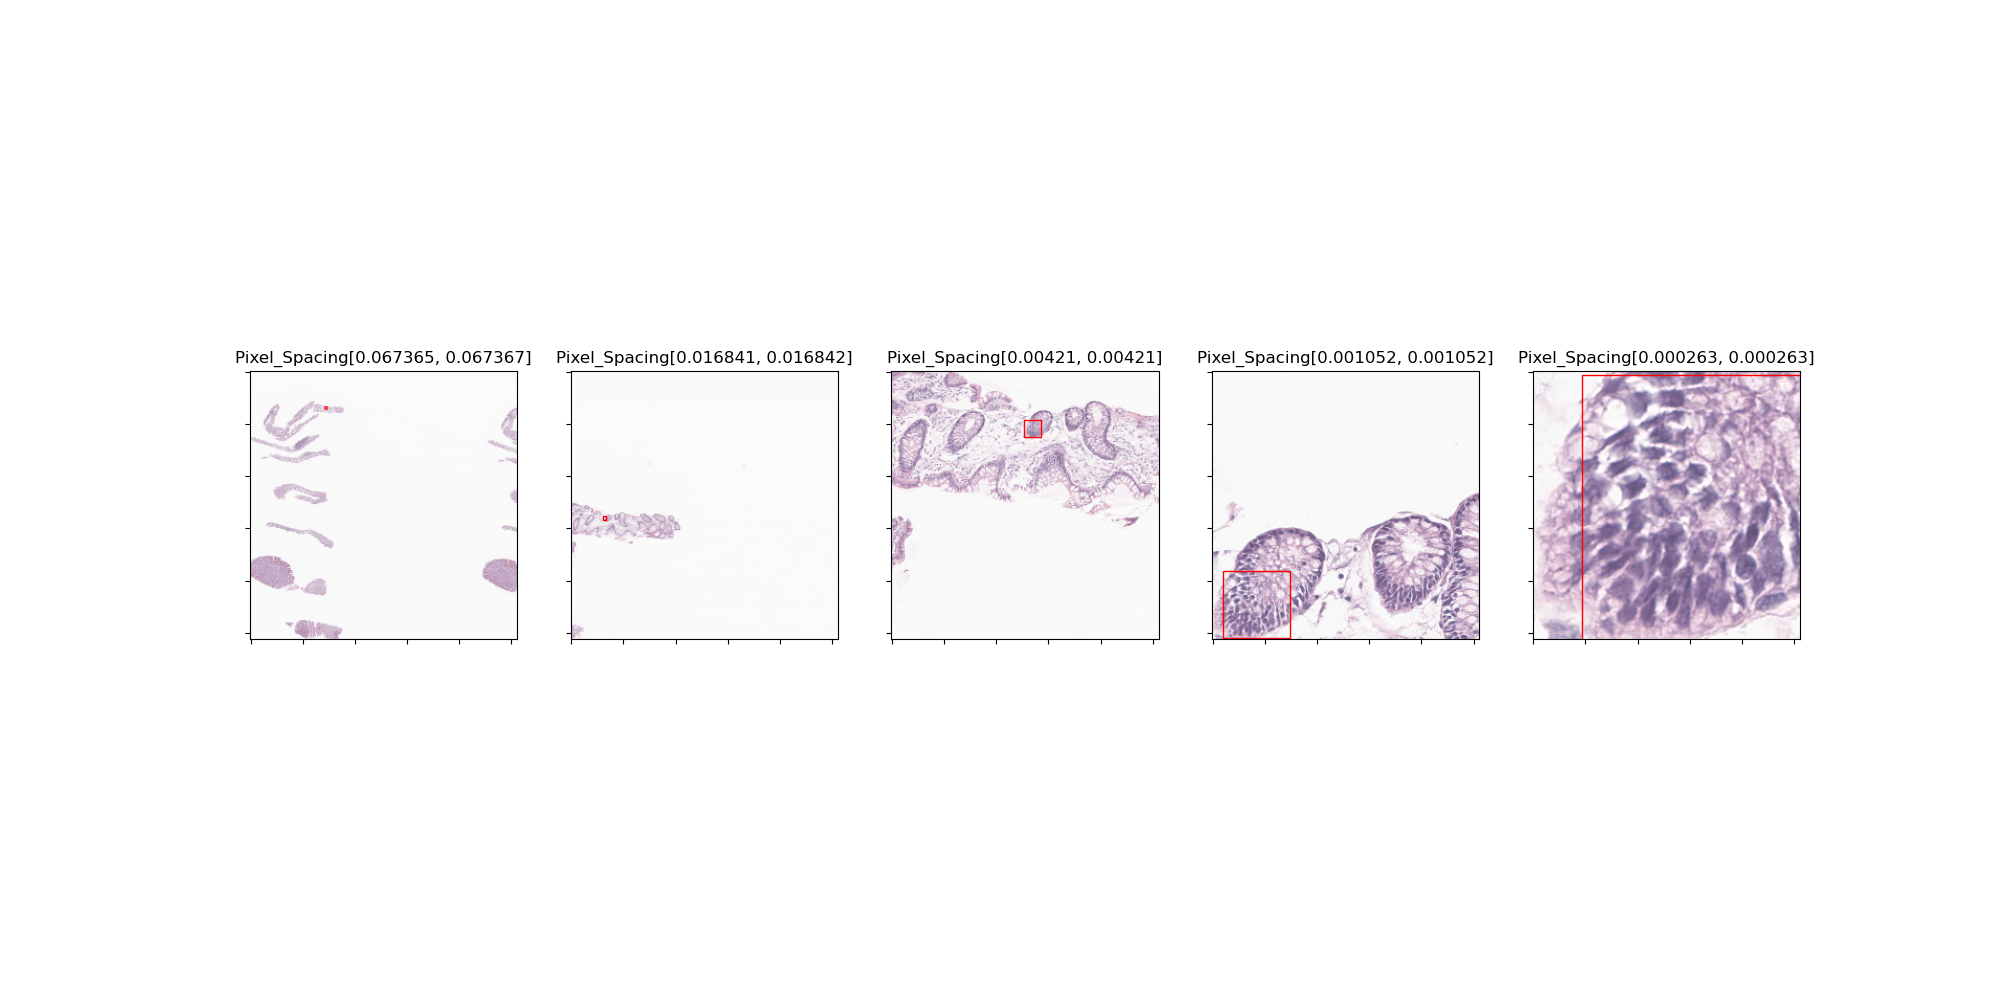
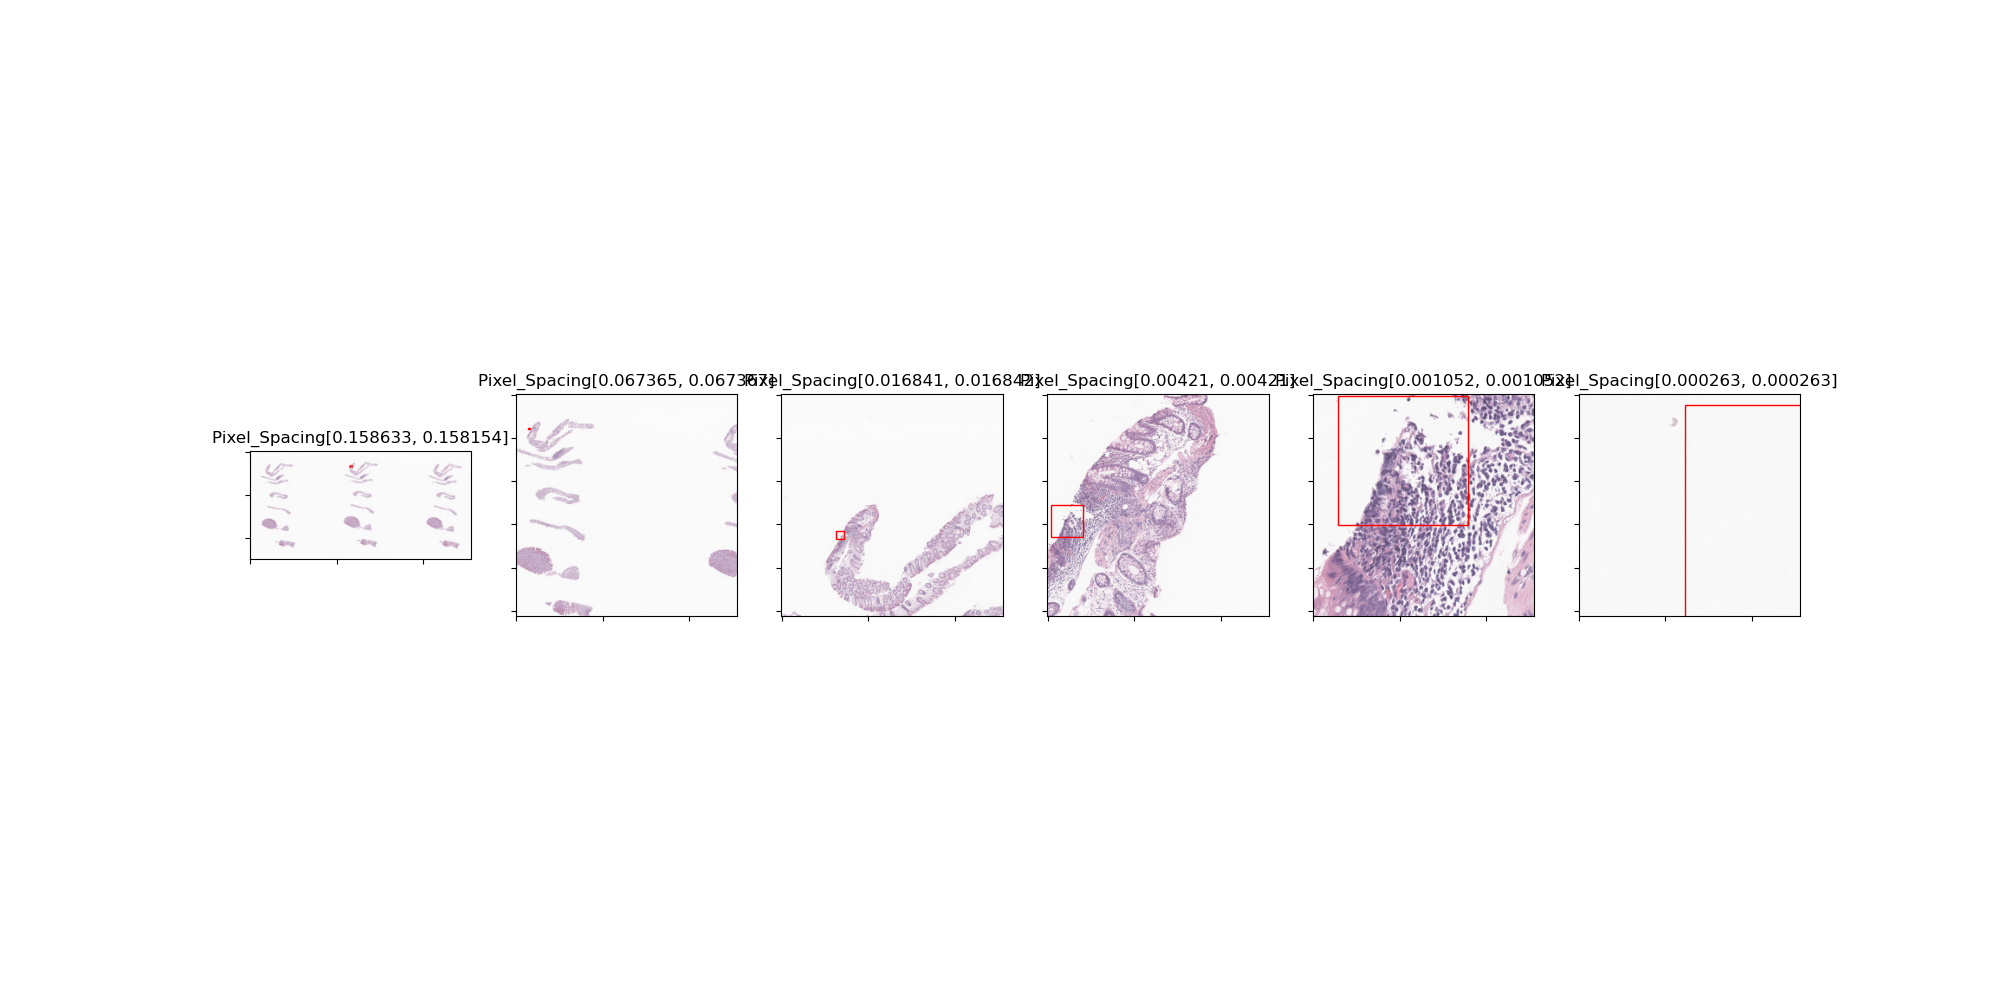
Made changes to Dicom_exercise_table.tsv and Dicom_table.py to include instance with 1 frame. Updated Series_0.png through Series_3.png to reflect the latest visualizations. Removed main.py as it is no longer needed in the project.

Changed region(s): [[0.124, 0.341, 0.93, 0.651], [0.124, 0.62, 0.186, 0.651], [0.341, 0.434, 0.372, 0.465]]

diff --git a/Dicom_table.py b/Dicom_table.py
@@ -214,7 +214,7 @@ for study in studies:
         ## Using the lowest resolution to get frames with tissues:
         print(sorted(volume_dict))
         low_res_instance_ID = volume_dict[
-            sorted(volume_dict)[-5]]  ### this -5 is not ideal and I need to extract it from the metadata somehow.
+            sorted(volume_dict)[0]]  ### this -5 is not ideal and I need to extract it from the metadata somehow.
         low_res_instance = pydicom.dataset.Dataset.from_json(
             client.retrieve_instance_metadata(study_instance_uid=study_id,
                                               series_instance_uid=series_id,
@@ -247,7 +247,7 @@ for study in studies:
 
         # Plotting set up
         n_rows = 1
-        n_cols = len(sorted(volume_dict)[-4:]) + 1
+        n_cols = len(sorted(volume_dict)[1:]) + 1
         fig, axes = plt.subplots(n_rows, n_cols, figsize=(20, 10))
         axes_flat = axes.flatten()
         img = axes_flat[0].imshow(frame)
@@ -262,7 +262,7 @@ for study in studies:
 
         # using all other high resolution volume to map the low res pixel from above
 
-        for n, high_res_instance_ID_index in enumerate(sorted(volume_dict)[-4:]):
+        for n, high_res_instance_ID_index in enumerate(sorted(volume_dict)[1:]):
 
             high_res_instance_ID = volume_dict[high_res_instance_ID_index]
             high_res_instance = pydicom.dataset.Dataset.from_json(
